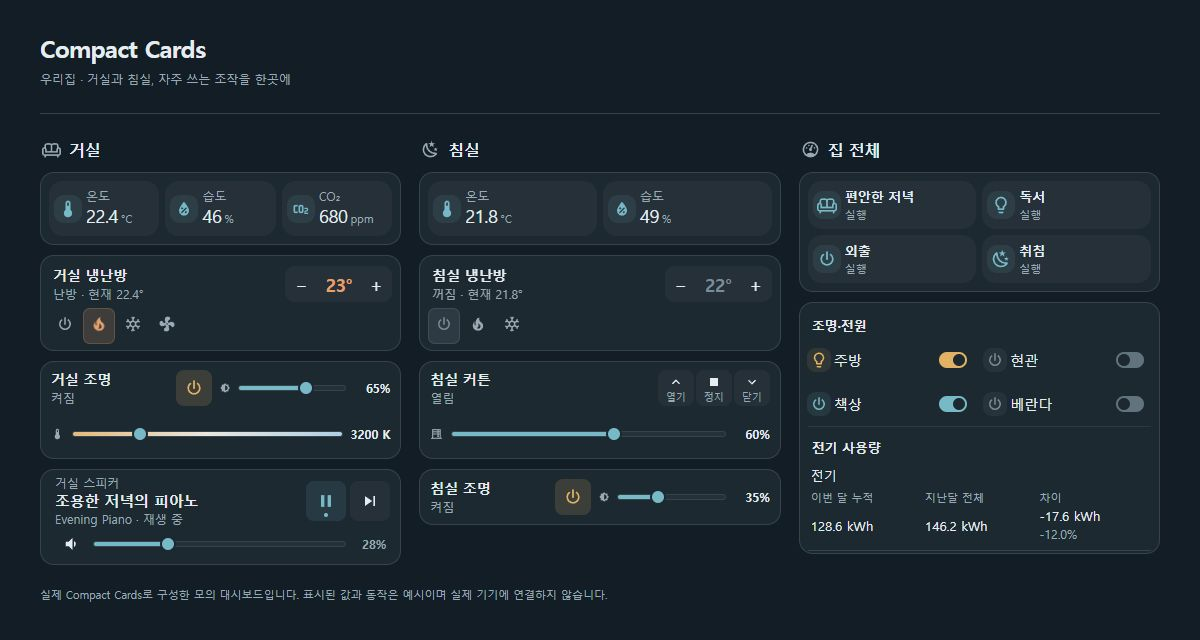
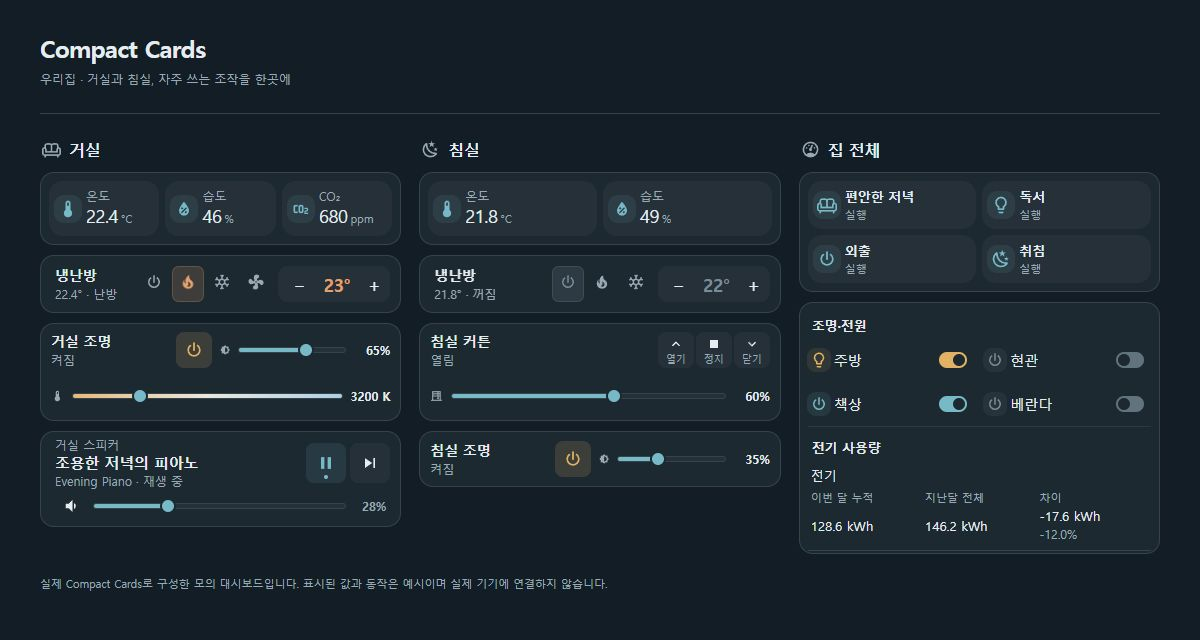
Keep climate rows inline when they fit and stop preview stretching (#13)
* Keep climate cards compact with measured inline fit and intrinsic height

* Document current climate capture sources and dimensions

diff --git a/examples/climate-fit.html b/examples/climate-fit.html
@@ -1,0 +1,61 @@
+<!doctype html>
+<html lang="ko">
+<head>
+<meta charset="utf-8"><meta name="viewport" content="width=device-width,initial-scale=1">
+<title>Compact Cards · 냉난방 너비·높이 확인</title>
+<style>
+:root{font-family:system-ui,-apple-system,"Segoe UI",sans-serif;color-scheme:light;--primary-color:#237d92;--primary-text-color:#24333e;--secondary-text-color:#74818b;--divider-color:#e2e8ed;--disabled-color:#b4bec6;--card-background-color:#fff;--secondary-background-color:#f0f4f6;--state-active-color:#237d92;--state-inactive-color:#8a97a0;--state-unavailable-color:#8a97a0;--state-climate-heat-color:#d98346;--state-climate-cool-color:#388ebc;--state-climate-fan_only-color:#398f85;--ha-card-border-radius:14px;color:var(--primary-text-color);background:#f3f6f8}
+:root[data-theme=dark]{color-scheme:dark;--primary-color:#78b9c8;--primary-text-color:#e5edf1;--secondary-text-color:#9aaab5;--divider-color:#34434c;--disabled-color:#61737d;--card-background-color:#1d2931;--secondary-background-color:#273740;--state-active-color:#78b9c8;--state-inactive-color:#7a8c97;--state-climate-heat-color:#e4a16d;--state-climate-cool-color:#79bddd;--state-climate-fan_only-color:#81bdb1;background:#121d25}
+*{box-sizing:border-box}body{margin:0;padding:24px}h1{font-size:19px;margin:0 0 8px}p,footer{font-size:12px;line-height:1.5;color:var(--secondary-text-color)}nav{display:flex;flex-wrap:wrap;gap:8px;align-items:center;margin:16px 0 22px}nav label{font-size:12px}nav button,nav select{font:inherit;font-size:12px;min-height:36px;padding:6px 10px;border:1px solid var(--divider-color);border-radius:8px;color:var(--primary-text-color);background:var(--card-background-color)}nav button{cursor:pointer}nav button:focus-visible,nav select:focus-visible{outline:2px solid var(--primary-color);outline-offset:2px}.fixtures{display:flex;flex-wrap:wrap;gap:24px;align-items:flex-start}.fixture{min-width:0;max-width:100%}.panel-fixture{width:var(--panel-width,390px)}.picker-fixture{width:280px}.fixture-title{font-size:13px;font-weight:500;margin:0 0 10px}.picker-slot{width:280px;max-width:100%;height:320px;display:grid;align-items:stretch;grid-template-columns:minmax(0,1fr);grid-template-rows:minmax(0,1fr);outline:1px dashed var(--divider-color);outline-offset:4px}footer{margin-top:20px;max-width:600px}#feedback:empty{display:none}body.capture{padding:8px}.capture header,.capture nav,.capture .fixture-title{display:none}@media(max-width:480px){body{padding:16px}.fixtures{gap:20px}}
+</style>
+<script>
+const fitParams=new URLSearchParams(location.search);
+document.documentElement.dataset.theme=fitParams.get('theme')==='dark'?'dark':'light';
+</script>
+</head>
+<body>
+<header><h1>냉난방 카드의 너비·높이</h1><p>같은 실제 카드 구현을 패널과 고정 높이 미리보기 부모 안에서 비교합니다.</p></header>
+<nav><label>패널 너비 <select id="width" aria-label="패널 너비"><option value="320">320px</option><option value="390" selected>390px</option><option value="480">480px</option></select></label><button id="theme" type="button">테마 변경</button></nav>
+<main class="fixtures" aria-label="냉난방 크기 검증용 모의 화면"></main>
+<footer>실제 카드 코드 · 모의 상태 · 실제 기기 제어 없음</footer>
+<p id="feedback" role="status" aria-live="polite"></p>
+<script src="preview-icons.js"></script>
+<script>
+// Only HA's visual primitives are substituted; card content/layout comes from compact-cards.js.
+customElements.define('ha-card',class extends HTMLElement{constructor(){super();this.attachShadow({mode:'open'}).innerHTML='<style>:host{display:block;background:var(--card-background-color);border:1px solid var(--divider-color);border-radius:var(--ha-card-border-radius,14px);color:var(--primary-text-color)}</style><slot></slot>';}});
+customElements.define('ha-icon',class extends HTMLElement{
+ constructor(){super();this.attachShadow({mode:'open'});this._observer=new MutationObserver(()=>this.update());}
+ connectedCallback(){this.update();this._observer.observe(this,{attributes:true,attributeFilter:['icon']});}
+ disconnectedCallback(){this._observer.disconnect();}
+ update(){const path=window.compactPreviewIcons?.[(this.getAttribute('icon')||'').replace('mdi:','')];this.shadowRoot.innerHTML='<style>:host{display:inline-flex;align-items:center;justify-content:center}</style>';if(!path)return;const svg=document.createElementNS('http://www.w3.org/2000/svg','svg'),glyph=document.createElementNS('http://www.w3.org/2000/svg','path');svg.setAttribute('viewBox','0 0 24 24');svg.setAttribute('width','100%');svg.setAttribute('height','100%');svg.setAttribute('fill','currentColor');glyph.setAttribute('d',path);svg.append(glyph);this.shadowRoot.append(svg);}
+});
+if(fitParams.get('capture')==='true')document.body.classList.add('capture');
+const requestedWidth=Number(fitParams.get('width')),panelWidth=[320,390,480].includes(requestedWidth)?requestedWidth:390;
+document.documentElement.style.setProperty('--panel-width',panelWidth+'px');document.querySelector('#width').value=String(panelWidth);
+</script>
+<script src="../compact-cards.js"></script>
+<script>
+const fitStates={
+ 'climate.demo_boiler':{entity_id:'climate.demo_boiler',state:'heat',attributes:{friendly_name:'보일러',temperature:25,current_temperature:25,min_temp:16,max_temp:30,target_temp_step:1,supported_features:1,hvac_modes:['off','heat'],hvac_action:'idle'}},
+ 'climate.demo_ac':{entity_id:'climate.demo_ac',state:'cool',attributes:{friendly_name:'에어컨',temperature:24,current_temperature:27.5,min_temp:16,max_temp:30,target_temp_step:1,supported_features:1,hvac_modes:['off','cool','fan_only','dry','auto'],hvac_action:'cooling'}},
+};
+const fitCards=[];
+const fitHass={states:fitStates,config:{unit_system:{temperature:'°C'}},formatEntityState:state=>({off:'꺼짐',heat:'난방',cool:'냉방',fan_only:'송풍',dry:'제습',auto:'자동'}[state.state]||state.state),callService:async(domain,service,data)=>{
+ if(domain!=='climate')throw new Error('모의 냉난방 서비스만 지원합니다.');
+ await new Promise(resolve=>setTimeout(resolve,250));const state=fitStates[data.entity_id];if(!state)throw new Error('모의 엔티티를 찾을 수 없습니다.');
+ if(service==='set_temperature')state.attributes.temperature=data.temperature;
+ if(service==='set_hvac_mode'){state.state=data.hvac_mode;state.attributes.hvac_action=({off:'off',heat:'heating',cool:'cooling',fan_only:'fan',dry:'drying',auto:'idle'}[data.hvac_mode]||'idle');}
+ for(const card of fitCards)card.hass={...fitHass};
+}};
+function addFitTarget(kind,title,config){const section=document.createElement('section');section.className=`fixture ${kind}-fixture`;section.dataset.target=kind;const heading=document.createElement('h2');heading.className='fixture-title';heading.textContent=title;section.append(heading);const card=document.createElement(config.type.replace('custom:',''));card.id=kind==='panel'?'panel-card':'picker-card';card.setConfig(config);card.hass=fitHass;if(kind==='picker'){const slot=document.createElement('div');slot.className='picker-slot';slot.id='picker-slot';slot.append(card);section.append(slot);}else section.append(card);document.querySelector('main').append(section);fitCards.push(card);}
+const target=fitParams.get('target');
+if(!target||target==='panel')addFitTarget('panel','홈 패널 · 보일러 2모드 / 에어컨 5모드',{type:'custom:compact-home-panel',items:[{type:'climate',entity:'climate.demo_boiler',name:'보일러'},{type:'climate',entity:'climate.demo_ac',name:'에어컨'}]});
+if(!target||target==='picker')addFitTarget('picker','단독 카드 · 280 × 320px 그리드 부모',{type:'custom:compact-climate-row',entity:'climate.demo_ac',name:'에어컨'});
+if(target&&!['panel','picker'].includes(target))document.querySelector('#feedback').textContent='target은 panel 또는 picker로 지정하세요.';
+document.querySelector('#width').onchange=event=>document.documentElement.style.setProperty('--panel-width',event.target.value+'px');
+document.querySelector('#theme').onclick=()=>document.documentElement.dataset.theme=document.documentElement.dataset.theme==='dark'?'light':'dark';
+document.addEventListener('hass-more-info',event=>{const state=fitStates[event.detail.entityId];document.querySelector('#feedback').textContent=`${state.attributes.friendly_name} · ${fitHass.formatEntityState(state)} · 설정 ${state.attributes.temperature}°C (모의 정보)`;});
+document.addEventListener('hass-notification',event=>document.querySelector('#feedback').textContent=event.detail.message);
+</script>
+</body>
+</html>

diff --git a/compact-cards.js b/compact-cards.js
@@ -92,8 +92,8 @@ class CompactClimateRow extends HTMLElement {
     this._busy = false;
     this.shadowRoot.innerHTML = `
       <style>
-        :host{display:block;height:100%;container-type:inline-size;--row-color:var(--primary-text-color)}
-        ha-card{height:100%;min-height:56px;box-sizing:border-box;display:grid;grid-template-columns:minmax(90px,1fr) auto auto;align-items:center;gap:6px;padding:6px 10px;overflow:hidden}
+        :host{display:block;container-type:inline-size;--row-color:var(--primary-text-color)}
+        ha-card{min-height:56px;box-sizing:border-box;display:grid;grid-template-columns:minmax(0,1fr) auto auto;align-items:center;align-content:start;gap:6px;padding:6px 10px;overflow:hidden}
         button{font:inherit;color:var(--row-color);background:transparent;border:0;border-radius:7px;min-height:36px;padding:4px;cursor:pointer;flex:none;touch-action:manipulation;position:relative}
         button:focus-visible{outline:2px solid var(--primary-color);outline-offset:-2px}
         button:disabled{opacity:.35;cursor:default}
@@ -117,9 +117,10 @@ class CompactClimateRow extends HTMLElement {
         .temperature{border-left:1px solid var(--divider-color);padding-left:5px}
         .temperature button{width:32px;font-size:18px}
         output{font-size:14px;font-variant-numeric:tabular-nums;min-width:39px;text-align:center;white-space:nowrap}
-        @container(max-width:380px){ha-card{grid-template-columns:minmax(0,1fr) auto;padding:6px 8px;gap:2px 6px}.modes{grid-row:2;grid-column:1/-1;flex-wrap:wrap}.temperature{grid-column:2;grid-row:1;border:0;padding:0}}
-        @container(max-width:540px){ha-card.many-modes{grid-template-columns:minmax(0,1fr) auto;gap:2px 6px}.many-modes .modes{grid-row:2;grid-column:1/-1;flex-wrap:wrap}.many-modes .temperature{grid-column:2;grid-row:1;border:0;padding:0}}
-        @media(pointer:coarse){button{min-height:44px}.modes button,.temperature button{width:44px}.modes{flex-wrap:wrap;max-width:100%}@container(max-width:640px){ha-card.many-modes{grid-template-columns:minmax(0,1fr) auto;gap:2px 6px}.many-modes .modes{grid-row:2;grid-column:1/-1}.many-modes .temperature{grid-column:2;grid-row:1;border:0;padding:0}}@container(max-width:440px){ha-card{grid-template-columns:minmax(0,1fr) auto;gap:2px 6px}.modes{grid-row:2;grid-column:1/-1}.temperature{grid-column:2;grid-row:1;border:0;padding:0}}}
+        ha-card.wrap-modes{grid-template-columns:minmax(0,1fr) auto;gap:2px 6px}
+        .wrap-modes .modes{grid-row:2;grid-column:1/-1;flex-wrap:wrap;min-width:0;max-width:100%}
+        .wrap-modes .temperature{grid-column:2;grid-row:1}
+        @media(pointer:coarse){button{min-height:44px}.modes button,.temperature button{width:44px}}
         :host([embedded]) ha-card{min-height:48px;border:0;box-shadow:none;background:transparent;padding:4px 0}
       </style>
       <ha-card>
@@ -130,6 +131,10 @@ class CompactClimateRow extends HTMLElement {
         </div>
       </ha-card>`;
     compactInteractions(this);
+    if(typeof ResizeObserver==='function')this._resize=new ResizeObserver(()=>{
+      if(this._layoutFrame!==undefined)return;
+      this._layoutFrame=requestAnimationFrame(()=>{this._layoutFrame=undefined;this._layout();});
+    });
     this.shadowRoot.querySelector('.info').onclick = () => this.dispatchEvent(new CustomEvent('hass-more-info', { detail: { entityId: this._config.entity }, bubbles: true, composed: true }));
     this.shadowRoot.querySelector('.minus').onclick = () => this._step(-1);
     this.shadowRoot.querySelector('.plus').onclick = () => this._step(1);
@@ -143,8 +148,23 @@ class CompactClimateRow extends HTMLElement {
     this._render();
   }
   set hass(value) { this._hass = value; this._render(); }
-  disconnectedCallback(){compactClearFeedback(this);}
-  getCardSize() { return (this._hass?.states[this._config?.entity]?.attributes.hvac_modes?.length || 0) > 3 ? 2 : 1; }
+  connectedCallback(){this._resize?.observe(this);this._resize?.observe(this.shadowRoot.querySelector('.temperature'));this._layout();}
+  disconnectedCallback(){compactClearFeedback(this);this._resize?.disconnect();if(this._layoutFrame!==undefined)cancelAnimationFrame(this._layoutFrame);this._layoutFrame=undefined;}
+  _layout() {
+    const card=this.shadowRoot.querySelector('ha-card');
+    if(!card.clientWidth)return;
+    const styles=getComputedStyle(card),modes=this.shadowRoot.querySelector('.modes'),buttons=[...modes.children];
+    const gap=parseFloat(getComputedStyle(modes).columnGap)||0;
+    const modesWidth=buttons.reduce((width,button)=>width+button.getBoundingClientRect().width,0)+Math.max(0,buttons.length-1)*gap;
+    const available=card.clientWidth-(parseFloat(styles.paddingLeft)||0)-(parseFloat(styles.paddingRight)||0);
+    // Reserve a short readable name/current-temperature column; long captions retain their tooltip.
+    const required=72+modesWidth+this.shadowRoot.querySelector('.temperature').getBoundingClientRect().width+2*(parseFloat(styles.columnGap)||0);
+    card.classList.toggle('wrap-modes',required>available);
+  }
+  getCardSize() {
+    if(!this.shadowRoot.querySelector('ha-card').classList.contains('wrap-modes'))return 1;
+    return 1+Math.max(1,new Set([...this.shadowRoot.querySelector('.modes').children].map(button=>button.offsetTop)).size);
+  }
   static getStubConfig(hass) {
     return { entity: Object.keys(hass?.states || {}).find(id => id.startsWith('climate.')) || 'climate.living_room' };
   }
@@ -166,7 +186,10 @@ class CompactClimateRow extends HTMLElement {
     const offline = !s || ['unknown', 'unavailable'].includes(s.state);
     compactStyle(this.shadowRoot.querySelector('ha-card'),'--climate-color', this._modeColor(offline ? 'unavailable' : s.state));
     compactText(this.shadowRoot.querySelector('.name'),this._config.name || a.friendly_name || this._config.entity);
-    compactText(this.shadowRoot.querySelector('.state'),offline ? '확인 불가' : `${this._hass.formatEntityState?.(s) || s.state}${a.current_temperature != null ? ' · 현재 ' + a.current_temperature + '°' : ''}`);
+    compactText(this.shadowRoot.querySelector('.state'),offline ? '확인 불가' : `${a.current_temperature != null ? a.current_temperature + '° · ' : ''}${this._hass.formatEntityState?.(s) || s.state}`);
+    const description=`${this.shadowRoot.querySelector('.name').textContent}: ${!offline&&a.current_temperature!=null?'현재 ':''}${this.shadowRoot.querySelector('.state').textContent}`;
+    compactProp(this.shadowRoot.querySelector('.info'),'title',description);
+    compactAttr(this.shadowRoot.querySelector('.info'),'aria-label',description);
     const defs = { off:['mdi:power','끄기'], heat:['mdi:fire','난방'], cool:['mdi:snowflake','냉방'], dry:['mdi:water-percent','제습'], fan_only:['mdi:fan','송풍'], auto:['mdi:alpha-a-circle','자동'], heat_cool:['mdi:thermostat-auto','냉난방 자동'] };
     const modes = Array.isArray(a.hvac_modes) ? a.hvac_modes : [];
     this.shadowRoot.querySelector('ha-card').classList.toggle('many-modes',modes.length>3);
@@ -205,6 +228,7 @@ class CompactClimateRow extends HTMLElement {
     compactProp(minus,'disabled',offline || this._busy || !valid || !supported || (a.min_temp != null && t <= a.min_temp));
     compactProp(plus,'disabled',offline || this._busy || !valid || !supported || (a.max_temp != null && t >= a.max_temp));
     for(const button of [minus,plus]){compactAttr(button,'aria-busy',this._busy);compactAttr(button,'aria-disabled',button.disabled || this._busy);}
+    this._layout();
   }
   _step(direction) {
     const s = this._hass?.states[this._config.entity];

diff --git a/examples/showcase.html b/examples/showcase.html
@@ -34,8 +34,8 @@ if(showcaseParams.get('capture')==='true')document.body.classList.add('capture')
 <script>
 const entity=(id,state,attributes)=>({entity_id:id,state,attributes});
 const initial={
- 'climate.living_room':entity('climate.living_room','heat',{friendly_name:'거실 냉난방',current_temperature:22.4,temperature:23,min_temp:16,max_temp:30,target_temp_step:.5,supported_features:1,hvac_modes:['off','heat','cool','fan_only'],hvac_action:'heating'}),
- 'climate.bedroom':entity('climate.bedroom','off',{friendly_name:'침실 냉난방',current_temperature:21.8,temperature:22,min_temp:16,max_temp:30,target_temp_step:.5,supported_features:1,hvac_modes:['off','heat','cool'],hvac_action:'off'}),
+ 'climate.living_room':entity('climate.living_room','heat',{friendly_name:'냉난방',current_temperature:22.4,temperature:23,min_temp:16,max_temp:30,target_temp_step:.5,supported_features:1,hvac_modes:['off','heat','cool','fan_only'],hvac_action:'heating'}),
+ 'climate.bedroom':entity('climate.bedroom','off',{friendly_name:'냉난방',current_temperature:21.8,temperature:22,min_temp:16,max_temp:30,target_temp_step:.5,supported_features:1,hvac_modes:['off','heat','cool'],hvac_action:'off'}),
  'light.living_room':entity('light.living_room','on',{friendly_name:'거실 조명',brightness:166,supported_color_modes:['color_temp'],color_temp_kelvin:3200,min_color_temp_kelvin:2200,max_color_temp_kelvin:6500}),
  'light.bedroom':entity('light.bedroom','on',{friendly_name:'침실 조명',brightness:89,supported_color_modes:['brightness']}),
  'light.kitchen':entity('light.kitchen','on',{friendly_name:'주방 조명',supported_color_modes:['onoff']}),
@@ -60,13 +60,13 @@ const initial={
 const rooms=[
  {name:'거실',icon:'mdi:sofa-outline',cards:[
   {type:'custom:compact-environment-panel',items:[{entity:'sensor.living_temperature',name:'온도'},{entity:'sensor.living_humidity',name:'습도'},{entity:'sensor.living_co2',name:'CO₂'}]},
-  {type:'custom:compact-climate-row',entity:'climate.living_room',name:'거실 냉난방'},
+  {type:'custom:compact-climate-row',entity:'climate.living_room',name:'냉난방'},
   {type:'custom:compact-light-row',entity:'light.living_room',name:'거실 조명'},
   {type:'custom:compact-media-row',entity:'media_player.living_room',name:'거실 스피커'},
  ]},
  {name:'침실',icon:'mdi:weather-night',cards:[
   {type:'custom:compact-environment-panel',items:[{entity:'sensor.bedroom_temperature',name:'온도'},{entity:'sensor.bedroom_humidity',name:'습도'}]},
-  {type:'custom:compact-climate-row',entity:'climate.bedroom',name:'침실 냉난방'},
+  {type:'custom:compact-climate-row',entity:'climate.bedroom',name:'냉난방'},
   {type:'custom:compact-cover-row',entity:'cover.bedroom',name:'침실 커튼'},
   {type:'custom:compact-light-row',entity:'light.bedroom',name:'침실 조명'},
  ]},

diff --git a/docs/compact-climate-row.md b/docs/compact-climate-row.md
@@ -48,11 +48,28 @@ name: 거실 냉난방
 
 ## 좁은 카드와 터치 환경
 
-카드 너비가 380px 이하이면 모드 버튼을 이름·온도 아래로 옮깁니다. 모드가 네 개 이상인 기기는 540px 이하에서 아래로 옮기고, 터치 환경에서는 이 기준을 640px로 넓힙니다. 터치 환경에서는 일반적인 모드 수에서도 440px 이하에서 아래로 배치합니다. 모드가 많으면 추가로 감싸며 버튼을 작게 압축하지 않습니다.
+![390px 패널에서 한 줄로 배치한 보일러와 에어컨](../images/compact-climate-inline.jpg)
+
+위 예시는 실제 카드 코드와 모의 상태를 사용하는 390px 홈 패널입니다. 보일러의 두 모드와 에어컨의 다섯 모드가 각각 한 줄로 배치됩니다. 현재 온도를 보조 텍스트 앞에 표시해 좁은 이름 영역에서도 숫자를 먼저 읽을 수 있으며, 전체 상태는 툴팁과 접근성 이름으로 제공합니다.
+
+이름 공간과 실제 모드 버튼·온도 조작부의 너비를 확인하여, 공간이 충분하면 한 줄로 표시합니다. 고정된 화면 너비나 모드 개수만으로 두 줄을 만들지 않습니다. 한 줄에 들어가지 않을 때만 모드 버튼을 이름·온도 아래로 옮기며, 아래 줄에서도 공간이 부족하면 버튼을 감쌉니다.
+
+기기가 제공하는 모든 모드 버튼을 아이콘 중심으로 유지합니다. 줄을 줄이기 위해 모드를 숨기거나 드롭다운으로 바꾸지 않으며, 터치 환경의 44px 모드·온도 조작 영역도 유지합니다. 같은 너비라도 기기의 모드 수와 실제 조작부 너비에 따라 한 줄 또는 여러 줄로 배치될 수 있습니다.
+
+카드 본문은 내용에 필요한 높이를 사용하며, 편집 미리보기의 빈 높이를 채우기 위해 늘어나지 않습니다. 대시보드에서 카드 바깥에 별도로 지정한 그리드 행 높이나 여백은 대시보드 배치 설정에 따라 남을 수 있습니다.
 
 터치 환경의 모드·온도 버튼은 44px 조작 영역을 사용합니다. 지원하는 기기에서는 실제 운전 동작에 따라 아이콘이 움직이고, 운영체제의 동작 줄이기 설정에서는 애니메이션을 중지합니다.
 
 서비스 요청 중에는 모드·온도 제어를 비활성화하고 조작부를 살짝 흐리게 표시하여 처리 중임을 알립니다. 요청이 끝나면 다시 조작할 수 있습니다. 서비스 응답과 기기의 실제 상태 갱신 시점은 통합에 따라 다르며, 화면 상태는 Home Assistant가 보고한 값으로 표시합니다. 요청 실패 시 알림을 표시하고 버튼을 복구합니다.
+
+<details>
+<summary>고정 높이 부모 안의 카드 미리보기</summary>
+
+![320px 높이 부모 안에서 내용 높이만 사용하는 단독 카드](../images/compact-climate-picker.jpg)
+
+점선은 280 × 320px 모의 미리보기 부모이며, 내부 카드의 CSS는 실제 구현 그대로입니다. 카드가 부모 높이를 채우지 않고 내용 높이만 사용합니다. `examples/climate-fit.html`에서 재현할 수 있으며 실제 HA 연결 화면은 아닙니다.
+
+</details>
 
 ## 홈 패널에 넣기
 
@@ -79,4 +96,4 @@ items:
 
 Use `custom:compact-climate-row` with a required `climate.*` `entity` and optional `name`. Tap the name to open more-info; mode buttons request supported HVAC modes, and −/+ follows the device step and limits. A single target-temperature feature and a numeric temperature are required for temperature controls. Range-only thermostats need more-info for range adjustment.
 
-Modes wrap below the name and temperature on narrow cards; coarse-pointer devices get 44px targets. Controls disable and dim subtly during service requests, then recover after success or failure. Reported state comes from Home Assistant. Embed the same card using `type: climate` in a home panel. The representative image uses mocked local preview data.
+The card keeps the name, modes and temperature on one line whenever their measured widths fit. Modes move below the name and temperature only when needed, then wrap if necessary. All supported mode buttons remain visible and icon-centered; coarse-pointer controls retain 44px targets. The card uses its content height instead of stretching to fill editor preview space; dashboard grid settings may still reserve external space. Controls disable and dim subtly during service requests, then recover after success or failure. Reported state comes from Home Assistant. Embed the same card using `type: climate` in a home panel. The representative image uses mocked local preview data.

diff --git a/images/README.md b/images/README.md
@@ -8,8 +8,10 @@ Run `python -m http.server 8129 --bind 127.0.0.1` in the repository root and ope
 
 ## Room dashboard captures
 
-`showcase-light.jpg` and `showcase-dark.jpg` are actual Chromium captures of `examples/showcase.html?capture=true` (add `&theme=dark` for dark mode), at a 1200 × 640 viewport. `showcase-mobile.jpg` uses a 390 × 1480 viewport. Capture source: `49c1a5e`; all runtime styling and configuration changes are included. The seven individual card captures, overview and editor were also regenerated from that source.
+`showcase-light.jpg` and `showcase-dark.jpg` are actual Chromium captures of `examples/showcase.html?capture=true` (add `&theme=dark` for dark mode), at a 1200 × 640 viewport. `showcase-mobile.jpg` uses a 390 × 1377 viewport. These room images, `compact-climate-row.jpg` (422 × 180), and `overview.jpg` (422 × 946) were regenerated from source `a889174` for the climate fit update, using the isolated worktree server on port 8130. Other individual card images retain their original `49c1a5e` captures; their card implementations did not change in this update.
 
 These demonstrate three room groups with ten real card instances, seven card types, mocked states, and local HA visual primitives. No image generation, screenshot-only card CSS, or real device connection is involved. The exact card configurations are in `examples/showcase.yaml`; reproduction details are in `docs/showcase.md`.
 
 `compact-home-editor.jpg` demonstrates explicit name-tap configuration in the home-panel editor. It was captured from source `d6e19a8` at a 422 × 1104 viewport using `/examples/preview.html?card=compact-home-panel&editor=true&capture=true`, with the first heading collapsed and the second item expanded. The shown switch and sensor use mocked states; keyboard Enter toggling and UI switching to more-info were also checked in Chromium.
+
+`compact-climate-inline.jpg` (422 × 180) and `compact-climate-picker.jpg` (320 × 390) were captured from source `a889174` using `/examples/climate-fit.html?target=panel&theme=dark&capture=true` and `target=picker`, respectively. The former shows a 390px home panel; the latter exposes the fixed 280 × 320 parent boundary while the actual card keeps its content height. Only external fixture layout and local HA primitives are mocked; card CSS comes from the bundle.

diff --git a/CHANGELOG.md b/CHANGELOG.md
@@ -4,6 +4,8 @@
 
 - Replace dotted request outlines and pending/success card-edge flashes with subtle control dimming across cards. Remove button shrink/rebound effects while retaining keyboard focus, duplicate-request guards, actual-state colors and error feedback.
 
+- Keep climate rows at their content height, including editor previews, and wrap mode controls only when their measured widths need another line. Preserve all icon-only modes and 44px coarse-pointer targets instead of forcing extra rows at fixed breakpoints.
+
 ## 0.1.1 — 2026-10-30
 
 - Support explicit home-panel name-tap `toggle` and `more-info` actions in YAML and the visual editor while preserving default/legacy service-button behavior, dedicated right-hand controls, toggle confirmations, and unavailable/duplicate-request guards. Toggle requires the item's own explicit entity; this does not add the full Home Assistant action schema or hold/double-tap support.
